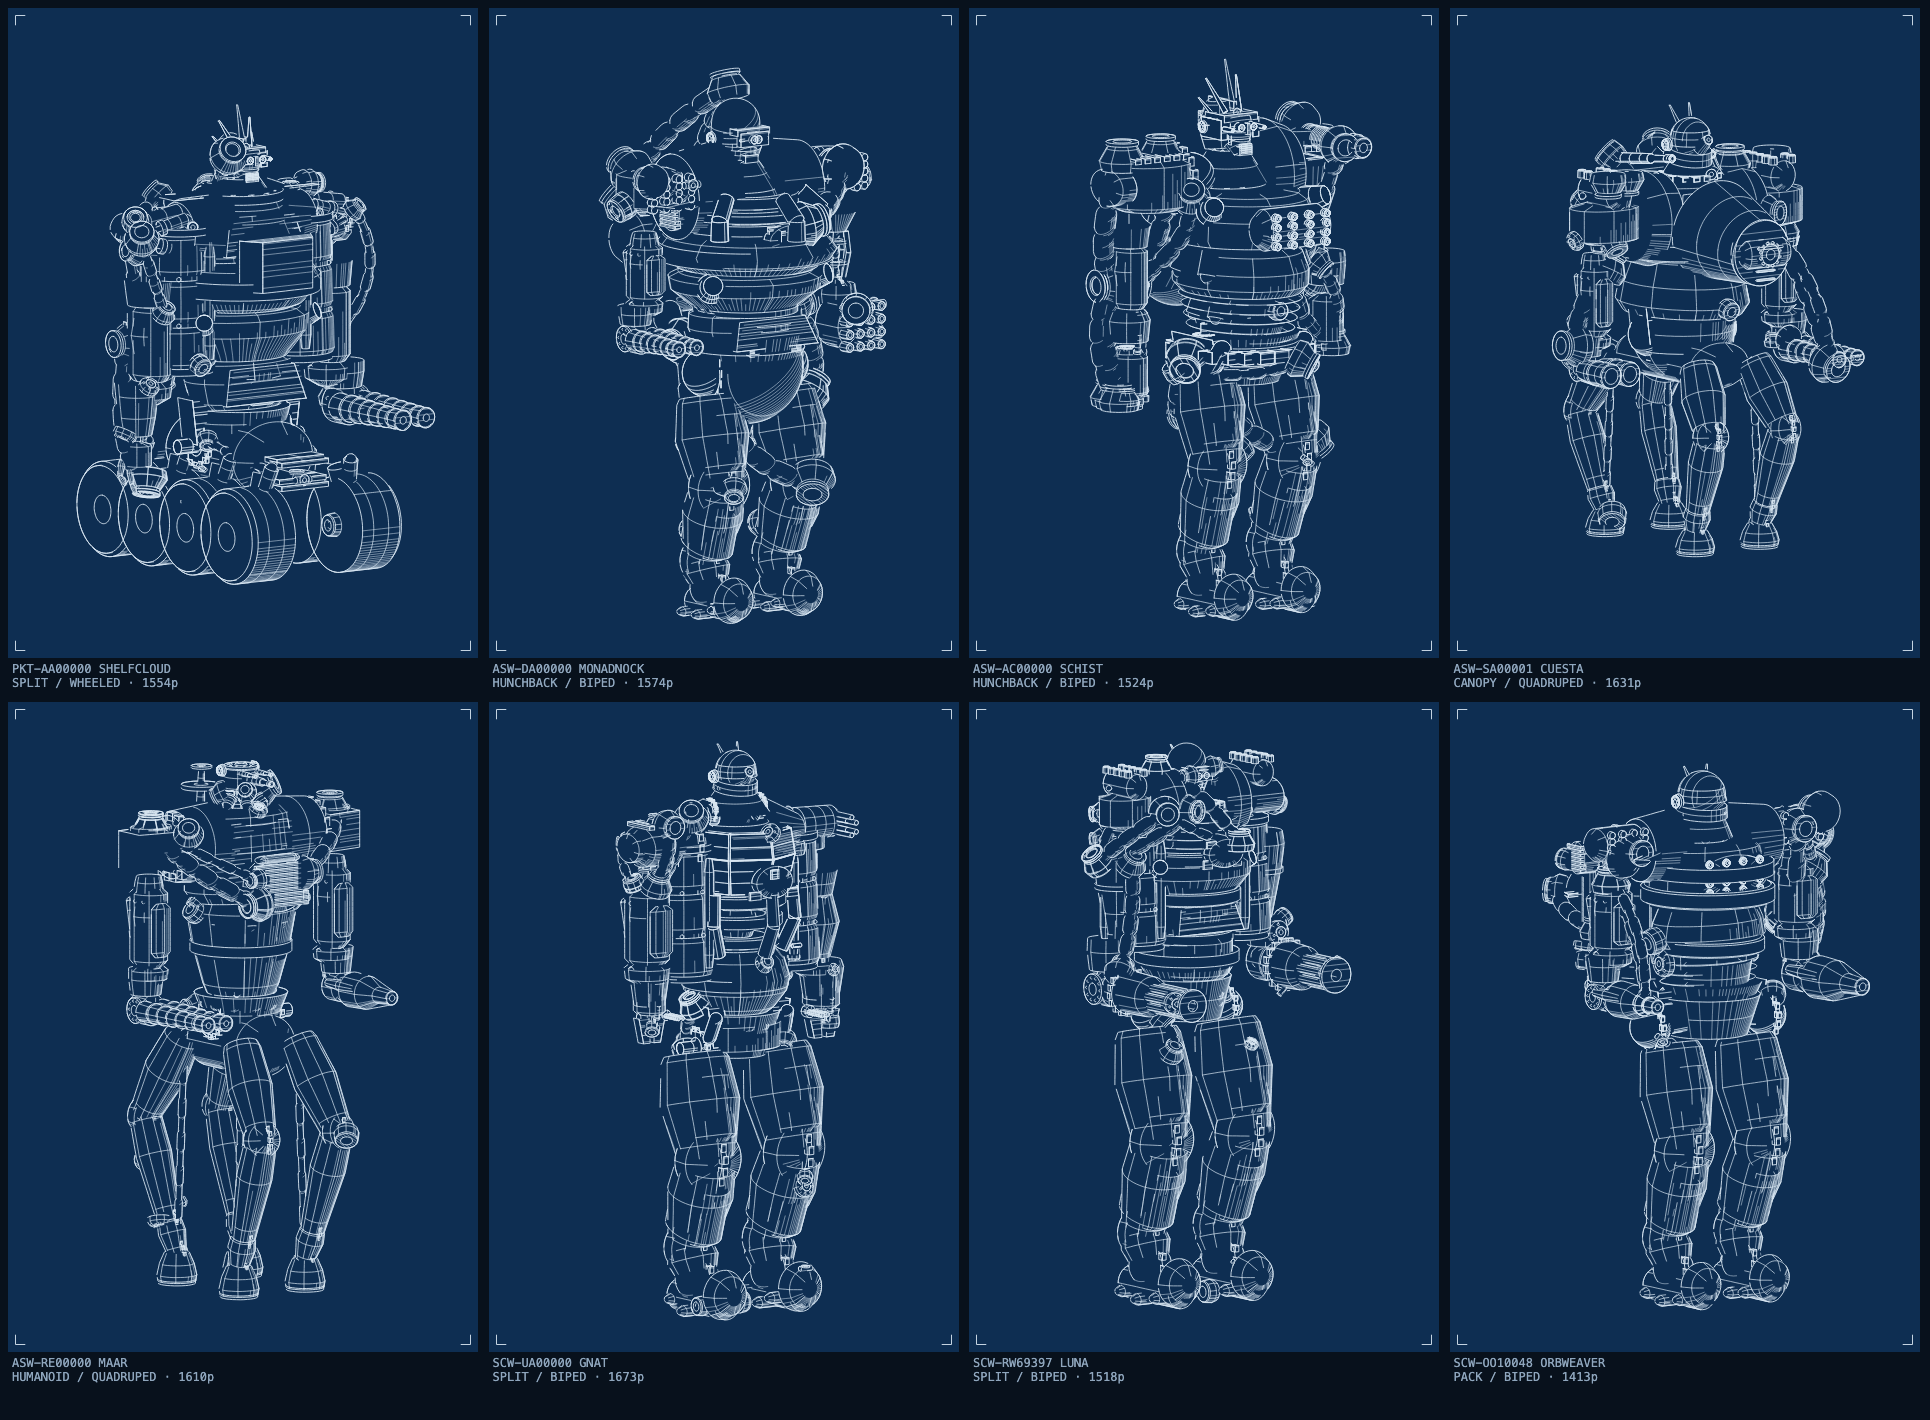
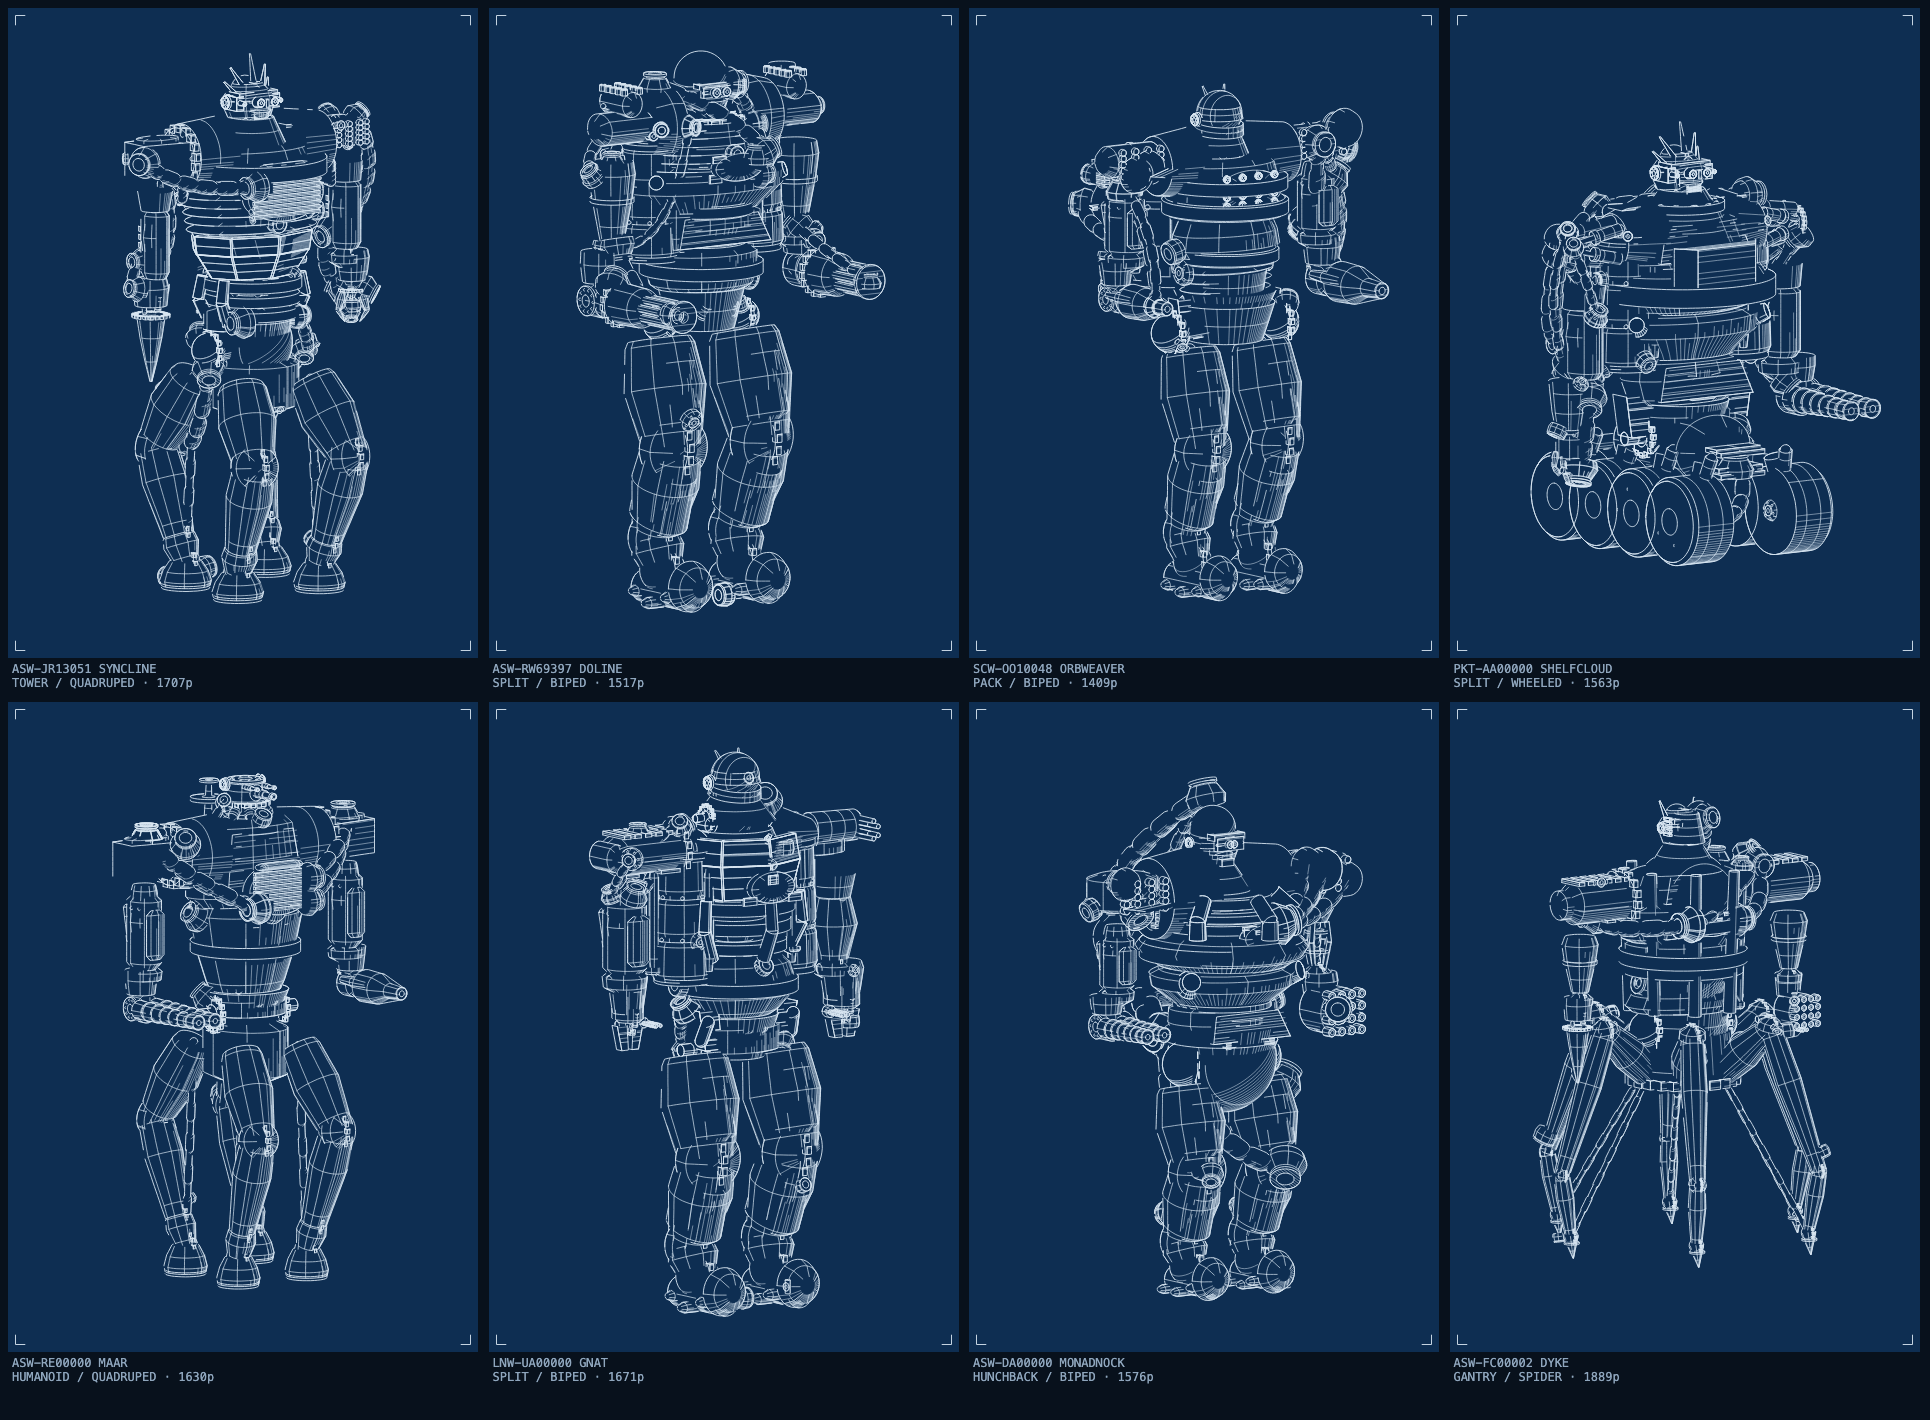
Guard the silhouette, not just the torso
Capping width against TORSO height stops a body being broader than it is deep
and does nothing about the machine as a whole: a chassis with a short narrow
torso on very long legs sails through and still comes out a 19-metre stick. The
guard now measures what is actually looked at — standing height against the span
at the shoulders — and puts anything past about two to one into the beam, which
reaches the yoke spread, the stance and the girdle because all three derive from
it. First attempt underestimated standing height by leaving out the head and
feet, so it almost never bound; corrected.

TOWER was also drawn at nearly five torso-diameters high on legs longer than
itself, which is a lamp-post rather than a build. It is a stretched humanoid now
rather than a different animal.

Narrowest machine in 400 rolls goes from 0.33 width-to-height to 0.51, median
from 0.66 to 0.74. Masses shift with the beam, so some frames cross a role band
and get a different designation.

diff --git a/index.html b/index.html
@@ -2320,7 +2320,27 @@ function mechSockets(c,parts,rr,R,P,lock){
      balanced on a narrow girdle, and legs sized to fit between those hips came
      out as spindles. Legs stand under the body, not under the socket. */
   const peak=TR*Math.max(prof(0.80),prof(1))*c.wid, capW=TH*0.46;
-  const wid=peak>capW?c.wid*(capW/peak):c.wid;
+  let wid=peak>capW?c.wid*(capW/peak):c.wid;
+  /* ---- and the guard the cap was only half of ----
+     Capping width against TORSO height stops a body being wider than it is
+     deep, and does nothing about the machine as a whole: a chassis with a short
+     narrow torso on very long legs sails through it and still comes out as a
+     19-metre stick. What matters is the finished silhouette, so measure that —
+     standing height against the span at the shoulders, which is the widest
+     point — and if it is past about two and a half to one, put the difference
+     into the beam. Widening here reaches everything downstream, because the
+     yoke spread, the stance and the girdle are all derived from it. */
+  /* 1.12 because the sum of the chassis numbers is not the machine: a head,
+     a set of feet and a crest all stand on top of it, and measuring against the
+     short figure let the guard pass builds that came out lean */
+  const stand=(TH+hipH+driveL*0.90+neckH+TR)*1.12;
+  for(let pass=0;pass<3;pass++){
+    const r0=TR*wid*prof(Math.max(0,Math.min(1,shY/TH)));
+    const span=r0*0.94+Math.max(TR*1.45,Math.min(c.shZ*1.35,r0*2.5)-r0*0.94);
+    const aspect=stand/(span*2);
+    if(aspect<=1.95)break;
+    wid*=Math.min(1.7,aspect/1.95);
+  }
   const hipW=Math.max(c.hipW,TR*wid*1.30);
   /* And the yoke has to sit ON the shoulder. Capping the torso moved the body
      in without moving the arms, so the yokes stayed where a wider machine would
@@ -2347,7 +2367,7 @@ function mechSockets(c,parts,rr,R,P,lock){
      yoke library was rewritten to actually use it: the variants were only
      filling half to three quarters of whatever they were given, so widening
      the envelope alone would have changed nothing. */
-  const yokeL=Math.max(TR*1.45,Math.min(c.shZ*1.35,shR*2.5)-shZ);
+  const yokeL=Math.max(TR*1.75,Math.min(c.shZ*1.5,shR*2.9)-shZ);
   const auxR=TR*wid*prof(Math.max(0,Math.min(1,auxY/TH)));
   const auxZ=auxR*0.96;
   const torso=composeTorso(0,TH,TR,rr,R,P,parts,lock,{prof,dep,wid});
@@ -2516,9 +2536,12 @@ const TOPO=[
  }},
 {n:"TOWER",axial:false,note:"tall and narrow, long arms, yoke right at the top",
  make(R,rr,P,parts,lock){return mechSockets(base({
-   TH:rr(40,48),TR:rr(8,10),dep:rr(0.9,1.05),wid:rr(0.9,1.05),
-   shY:rr(35,44),shZ:rr(12,15),armL:rr(18,23),foreL:rr(17,22),
-   hipH:rr(7,10),hipW:rr(9,12),driveL:rr(46,58),chestY:rr(26,34),backY:rr(28,36),
+   /* still the tall one, but a torso five diameters high on legs longer than
+      itself was a lamp-post, not a build. Roughly a humanoid's proportions
+      stretched, rather than a different animal. */
+   TH:rr(34,40),TR:rr(10.5,12.5),dep:rr(0.9,1.05),wid:rr(0.95,1.1),
+   shY:rr(29,36),shZ:rr(15,19),armL:rr(17,21),foreL:rr(16,20),
+   hipH:rr(6,9),hipW:rr(11,14),driveL:rr(40,48),chestY:rr(24,30),backY:rr(25,32),
    auxY:rr(30,38),prof:HOUR(rr(0.54,0.62),rr(0.98,1.06),rr(0.78,0.86))
  }),parts,rr,R,P,lock);}},
 {n:"CRADLE",axial:false,note:"torso slung low between the hips — a quadruped's build",

diff --git a/README.md b/README.md
@@ -43,6 +43,15 @@ sinks by however far the yokes reach up the torso: a chassis carrying its
 shoulders at collar height gets a head down between the pads, one carrying them
 at mid-chest keeps its neck.
 
+Two proportion guards sit over the whole set, because a chassis is free to roll
+numbers that make no sense together. Torso width is capped against torso height,
+so no body is broader than it is tall. And the **finished silhouette** is checked
+against itself — standing height versus the span at the shoulders, which is the
+widest point — because the first guard alone lets a short narrow torso on very
+long legs sail through and still come out a stick. Past about two to one, the
+difference goes into the beam, which reaches everything downstream since the
+yoke spread, the stance and the girdle all derive from it.
+
 **The arms are handed.** Everything else is bilateral and the mirror pass gives
 that away for free, but a mirror can only ever build a machine holding two of
 the same thing — and one close-combat arm beside one ranged arm is not a
